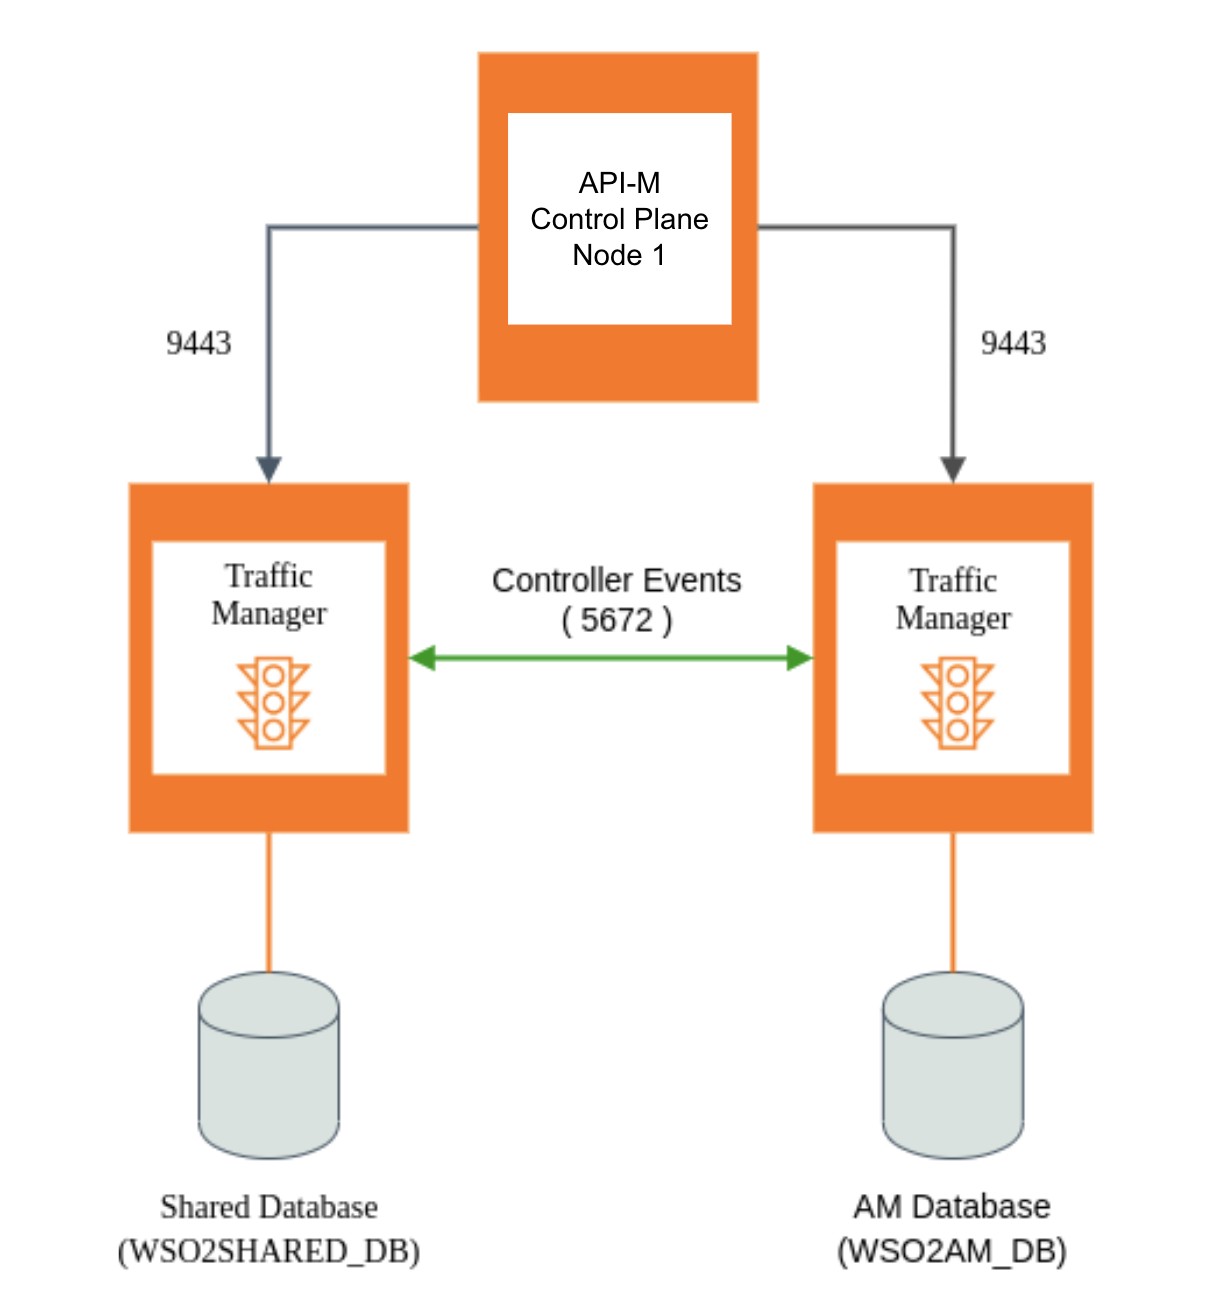
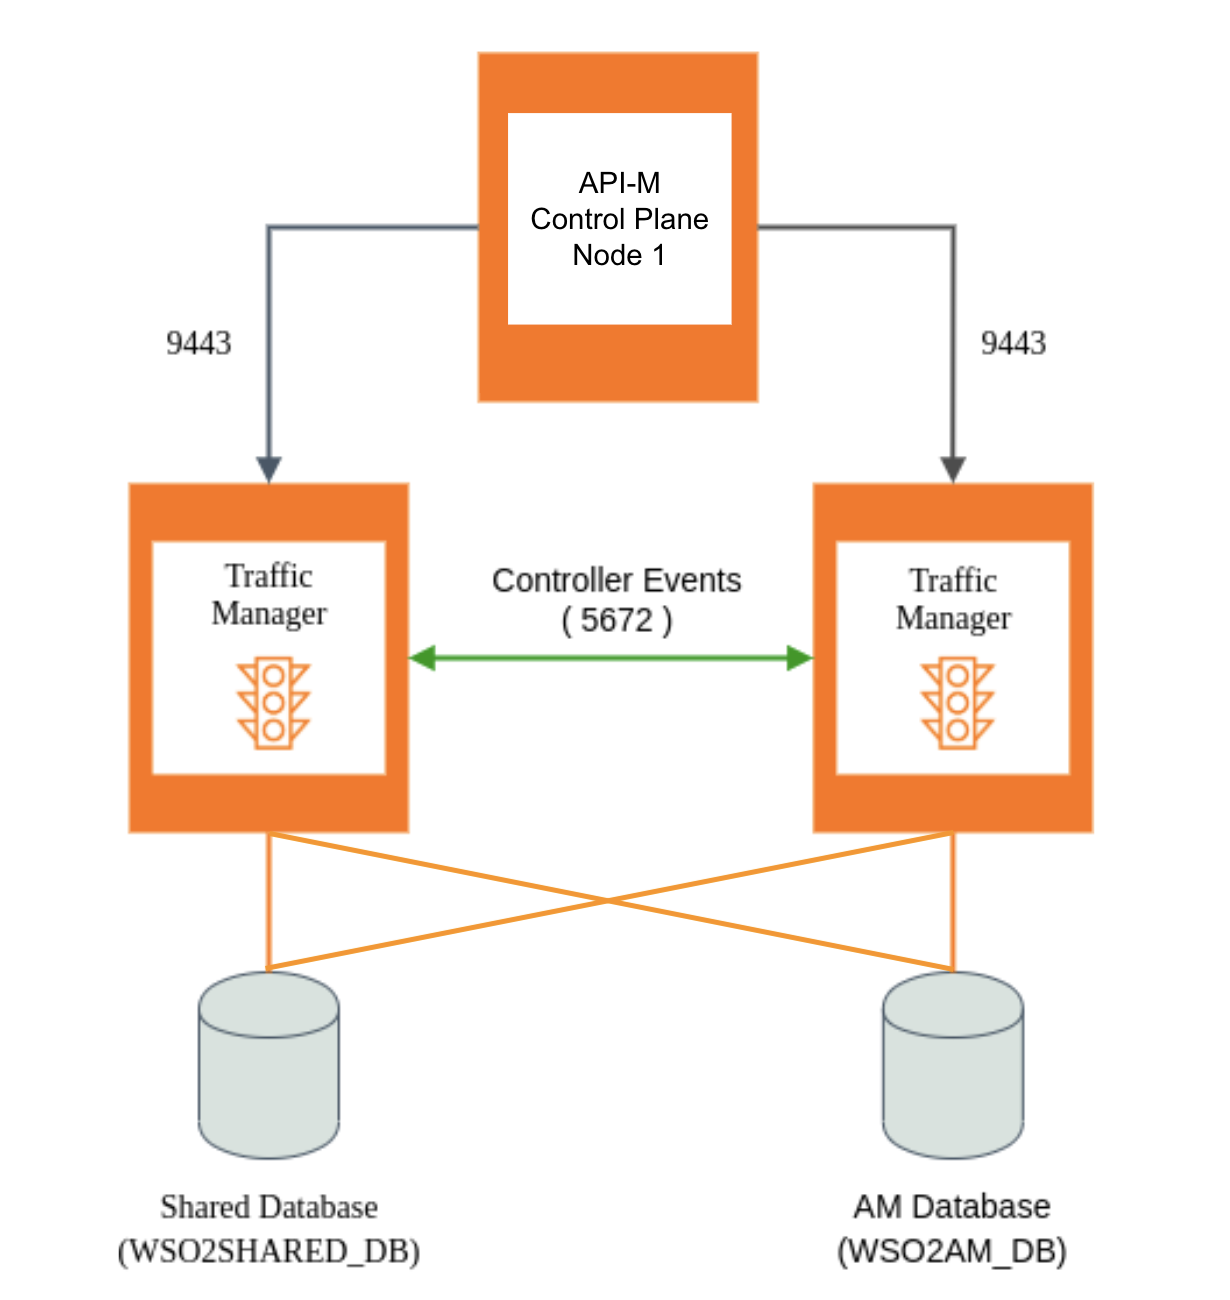
Make changes for 4.0.x and replace image

diff --git a/en/docs/install-and-setup/setup/distributed-deployment/deploying-wso2-api-m-in-a-distributed-setup.md b/en/docs/install-and-setup/setup/distributed-deployment/deploying-wso2-api-m-in-a-distributed-setup.md
@@ -120,7 +120,7 @@ Follow the steps given below.
         traffic_manager_auth_urls = ["ssl://control-plane-2-host:9711"]
         
         [apim.throttling]
-        service_url = "https://[Traffic-Manager-LB-Host]/services/"
+        service_url = "https://[Control-Panel-LB-Host]/services/"
         throttle_decision_endpoints = ["tcp://control-plane-1-host:5672", "tcp://control-plane-2-host:5672"]
         ```
         
@@ -282,7 +282,6 @@ Follow the steps given below to configure the Control Plane nodes to communicate
     type = "hybrid"
     display_in_api_console = true
     description = "This is a hybrid gateway that handles both production and sandbox token traffic."
-    show_as_token_endpoint_url = true
     ws_endpoint = "ws://[API-Gateway-LB-Host-or-IP]:9099"
     wss_endpoint = "wss://[API-Gateway-LB-Host-or-IP]:8099"
     http_endpoint = "http://[API-Gateway-LB-Host]"
@@ -295,7 +294,6 @@ Follow the steps given below to configure the Control Plane nodes to communicate
     type = "hybrid"
     display_in_api_console = true
     description = "This is a hybrid gateway that handles both production and sandbox token traffic."
-    show_as_token_endpoint_url = true
     ws_endpoint = "ws://[API-Gateway-host-or-IP]:9099"
     wss_endpoint = "wss://[API-Gateway-host-or-IP]:8099"
     http_endpoint = "http://[API-Gateway-host-or-IP]:${http.nio.port}"
@@ -324,6 +322,17 @@ In a typical distributed deployment, all API-M components (excluding the API-M G
 1.  Set up a new API-M server node to run the Traffic Manager profile.
 2.  Configure the Traffic Manager nodes should communicate with the Control Plane.
 3.  Configure the Key Manager, Publisher, and Developer Portal components in the Control Plane to communicate with the Traffic Manager.
+4. Configure the Gateway to communicate with the Traffic Manager along with a single Control Plane. The following configurations should be added.
+
+    ``` toml
+    [[apim.throttling.url_group]]
+    traffic_manager_urls = ["tcp://traffic-manager:9611"]
+    traffic_manager_auth_urls = ["ssl://traffic-manager:9711"]
+
+    [apim.throttling]
+    service_url = "https://traffic-manager-host:${mgt.transport.https.port}/services/"
+    throttle_decision_endpoints = ["tcp://traffic-manager:5672"]
+    ```
 
 <a href="{{base_path}}/assets/img/setup-and-install/traffic-manager-connections.png"><img src="{{base_path}}/assets/img/setup-and-install/traffic-manager-connections.png" width="500"></a>
 
@@ -343,7 +352,7 @@ Follow the steps given below.
             password = "$ref{super_admin.password}"
             ```
                 
-            ``` toml tab="Single Key Manager"
+            ``` toml tab="Control Plane"
             [apim.key_manager]
             service_url = "https://[control-plane-host]:${mgt.transport.https.port}/services/"
             username = "$ref{super_admin.username}"
